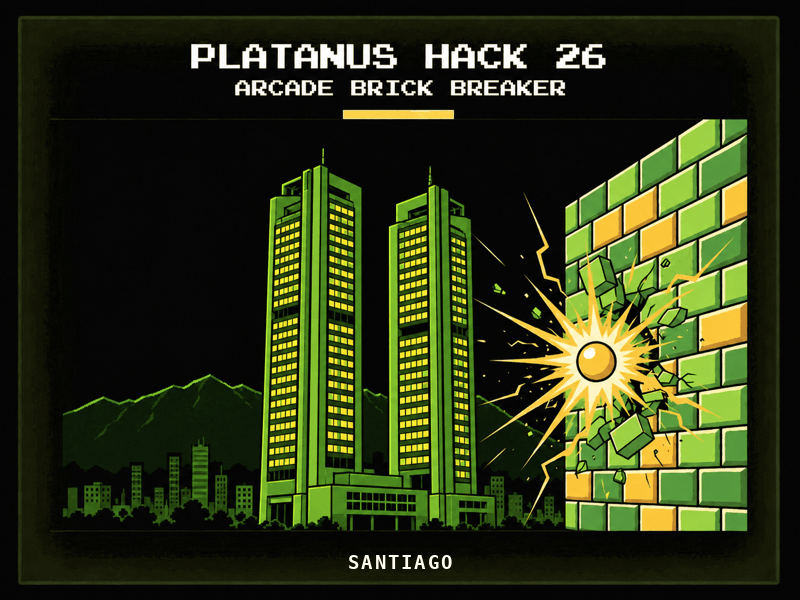
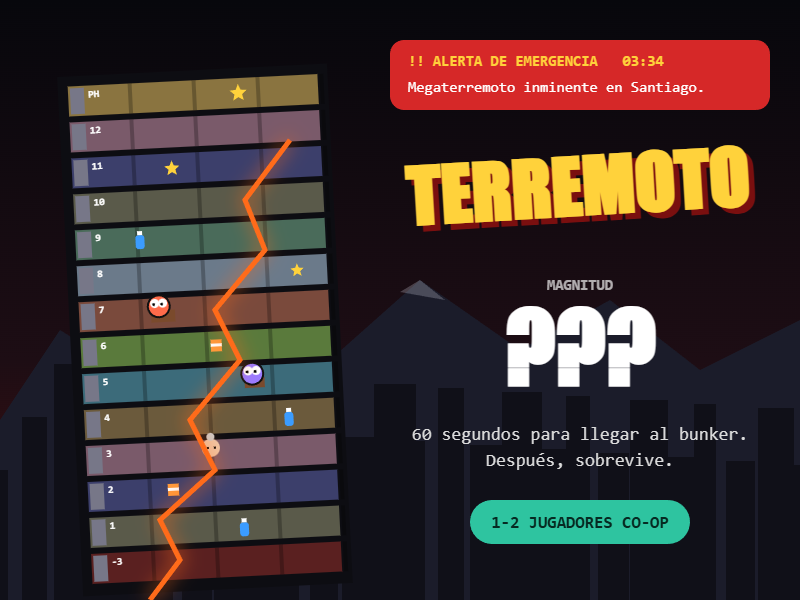
Add E6: cover, metadata and corridor apartment labels
Replace the starter metadata and cover with Terremoto's own: an 800x600
cover with the cracked building, the emergency alert and the ??? magnitude.
Apartment labels move to the corridor in front of each door so they no
longer cover items.

diff --git a/game.js b/game.js
@@ -225,7 +225,7 @@ function genFloor(f, extra) {
       if (family) { put('abuela', free(x, y0, x1, y1)); put('perro', free(x, y0, x1, y1)); }
       if (Math.random() < (f / NF) * 0.5) put(pick(EGGS), free(x, y0, x1, y1));
       if (n == 0) for (const p of extra[f] || []) put(p, free(x, y0, x1, y1));
-      labels.push([dx, dr == 5 ? 4 : 10, fl(f) + 'ABCDEFGH'[n] + ' ' + th[0]]);
+      labels.push([dx, dr == 5 ? 6 : 8, fl(f) + 'ABCDEFGH'[n] + ' ' + th[0]]); // en el pasillo, frente a la puerta: ahí no hay objetos
       x = x1 + 2;
     }
   }

diff --git a/docs/GAME_SPEC.md b/docs/GAME_SPEC.md
@@ -106,4 +106,4 @@ Abuelita · Gamer · Conserje · Estudiante · Doctora · Tío del asado · Airb
 | **E3 Logbook** | Raciones, estados, días, eventos, endings, resumen "te habría salvado" | Hecho |
 | **E4 Arcade** | Título, puntaje, iniciales, ranking 1P/2P | Hecho |
 | **E5 Arte y audio** | Muebles, personajes, iconos, sonido procedural | Hecho |
-| **E6 Pulido** | Balance, cover, metadata, peso | |
+| **E6 Pulido** | Balance, cover, metadata, peso | Hecho |
